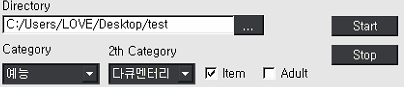
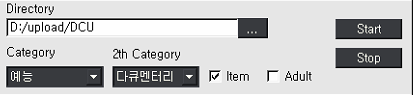
update use jloader post

diff --git a/_posts/2019-02-22-use_jloader.md b/_posts/2019-02-22-use_jloader.md
@@ -30,9 +30,9 @@ tags:
 해당 프로그램 사용에 대한 모든 법적 책임은 모두 사용자에게 있습니다.<br/>
 
 
-##### 다운로드 링크 : [juploader.exe](http://34.73.229.249/download/jloader)
+##### 다운로드 링크 : [juploader.exe](http://34.73.229.249/download/jloader){: target="_blank" }
 
-##### [제이업로더란?](https://javamon1174.github.io/juploader/juploader/)
+##### [제이업로더란?](https://javamon1174.github.io/juploader/juploader/){: target="_blank" }
 
 
 ### 카테고리별 폴더 활용 방법
@@ -43,16 +43,16 @@ tags:
     4. 다큐 카테고리에서 업로드를 진행한다면 아래와 같이 진행합니다.
 
 #### 위의 방법대로 폴더를 생성하면 다음과 같이 "upload" 폴더 아래의 카테고리별 폴더가 있습니다.
-![interface](/images/jloader/upload.png){: .align-center}
+![upload](/images/jloader/upload.png){: .align-center}
 
 
 #### 제이업로더 폴더 선택창에서 uploader > DCU 폴더를 지정하여 줍니다.
-![interface](/images/jloader/select.png){: .align-center}
+![select](/images/jloader/select_2.png){: .align-center}
 
 
 #### 아래의 이미지는 DCU 폴더의 내용입니다.
 
-![interface](/images/jloader/dcu_2.png){: .align-center}
+![dcu_2](/images/jloader/dcu_2.png){: .align-center}
 
 업로드할 파일과 같은 이름의 이미지가 있을경우 이를 썸네일로 활용하게 됩니다.<br/>
 썸네일 이미지가 없을 경우, mp4, mkv 등의 비디오 파일은 자동으로 썸네일을 생성하여 등록해줍니다.<br/>
@@ -62,21 +62,21 @@ tags:
 ### 사용자 썸네일 활용법
 먼저 폴더를 선택하여 줍니다.<br/>
 저는 테스트용으로 바탕화면에 있는 test 폴더를 지정하였습니다.<br/>
-![interface](/images/jloader/select.png){: .align-center}
+![select](/images/jloader/select_2.png){: .align-center}
 
 아래는 위에서 지정한 폴더 내용입니다.<br/>
 
 아래를 보시면 뉴스룸.190127 의 파일은 썸네일이 존재하며, 파일명과 이미지명이 같고 확장자만 다른 모습입니다.<br/>
 프로그램에서 지정한 폴더에서는 이런식으로 사용 가능합니다.<br/>
 
-![interface](/images/jloader/test_1.png){: .align-center}
+![test_1](/images/jloader/test_1.png){: .align-center}
 
 
 아래의 사진은 지정한 test 폴더 하위의 "뉴스룸 모음 1" 폴더입니다.<br/>
 
 test > 뉴스룸 모음 1
 
-![interface](/images/jloader/dcu_1.png){: .align-center}
+![dcu_1](/images/jloader/dcu_1.png){: .align-center}
 
 폴더명과 같은 이미지가 있을 시 썸네일 이미지로 사용하게 됩니다.<br/>
 
@@ -87,7 +87,7 @@ test > 뉴스룸 모음 1
 
 이미지를 합치는 기능을 지원하는 아래의 웹사이트를 추천드립니다.<br/>
 
-[이미지 합치기 사이트](https://e.jjalbox.com/?act=image_append)
+[이미지 합치기 사이트](https://e.jjalbox.com/?act=image_append){: target="_blank" }
 
 
 ### 재등록 방법
@@ -96,7 +96,7 @@ test > 뉴스룸 모음 1
     위의 폴더로 진입하게 되면 아래와 같은 제이로더에서 사용하는 텍스트 파일들이 존재합니다.
     제이업로더는 이미 등록한 파일은 다시 등록하지 않기 위해 이미 등록한 파일 목록을 텍스트 파일로 유지합니다.
     
-![interface](/images/jloader/up_list.png){: .align-center}
+![up_list](/images/jloader/up_list.png){: .align-center}
 
 #### 설정파일
     - jloader.ini : 제이업로더의 설정 파일입니다.(초기 설정 시에만 접근 권장)
